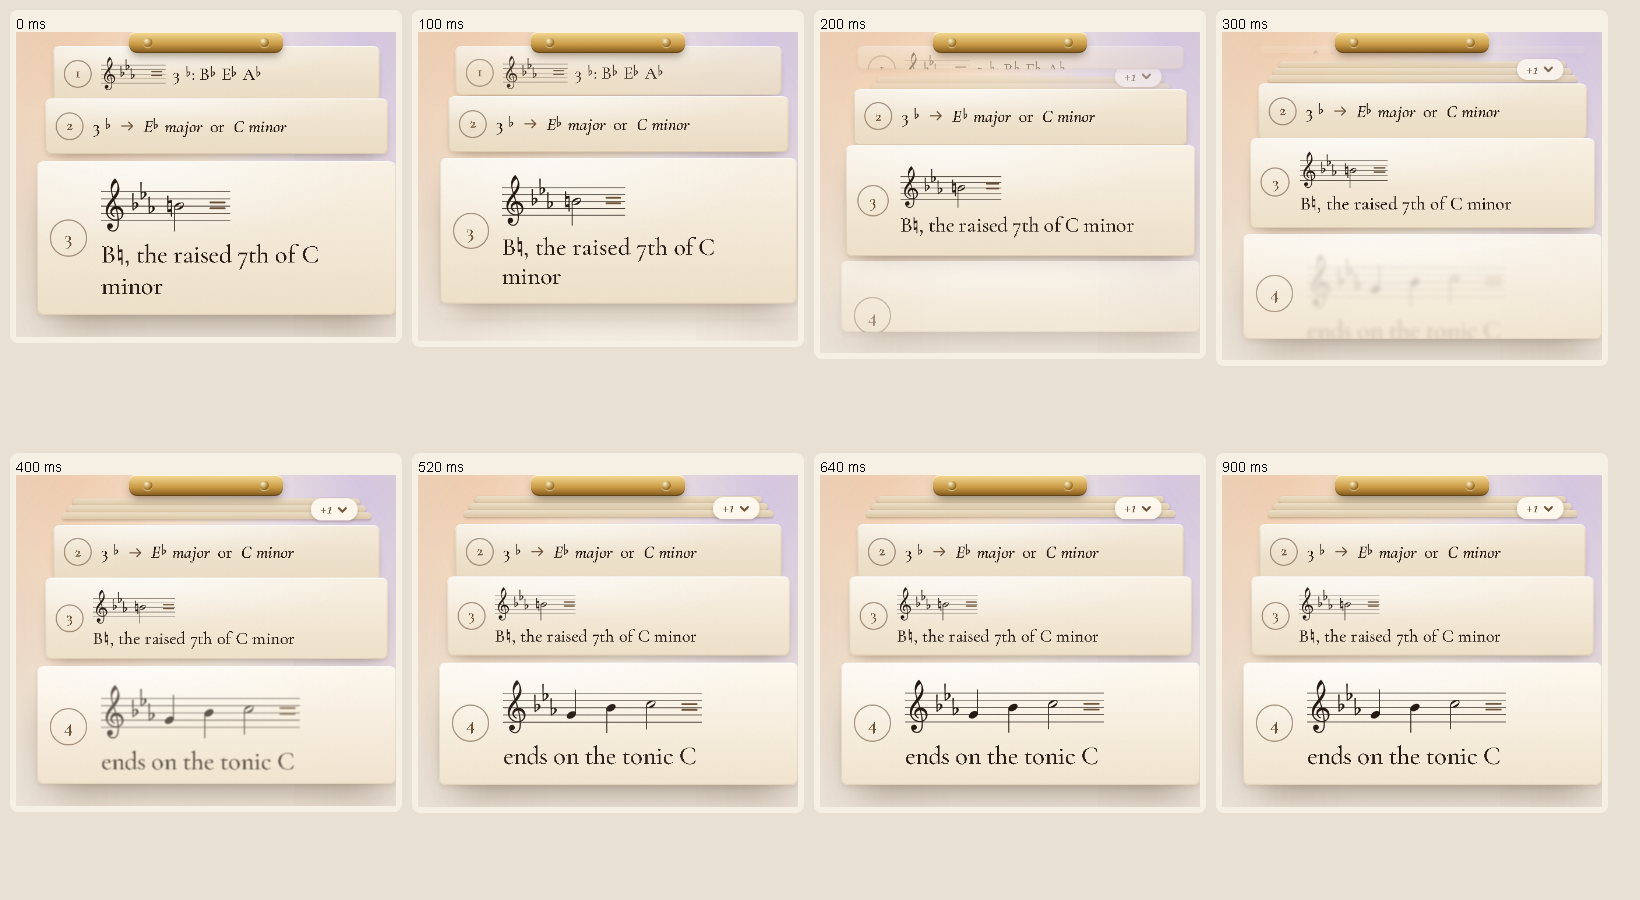
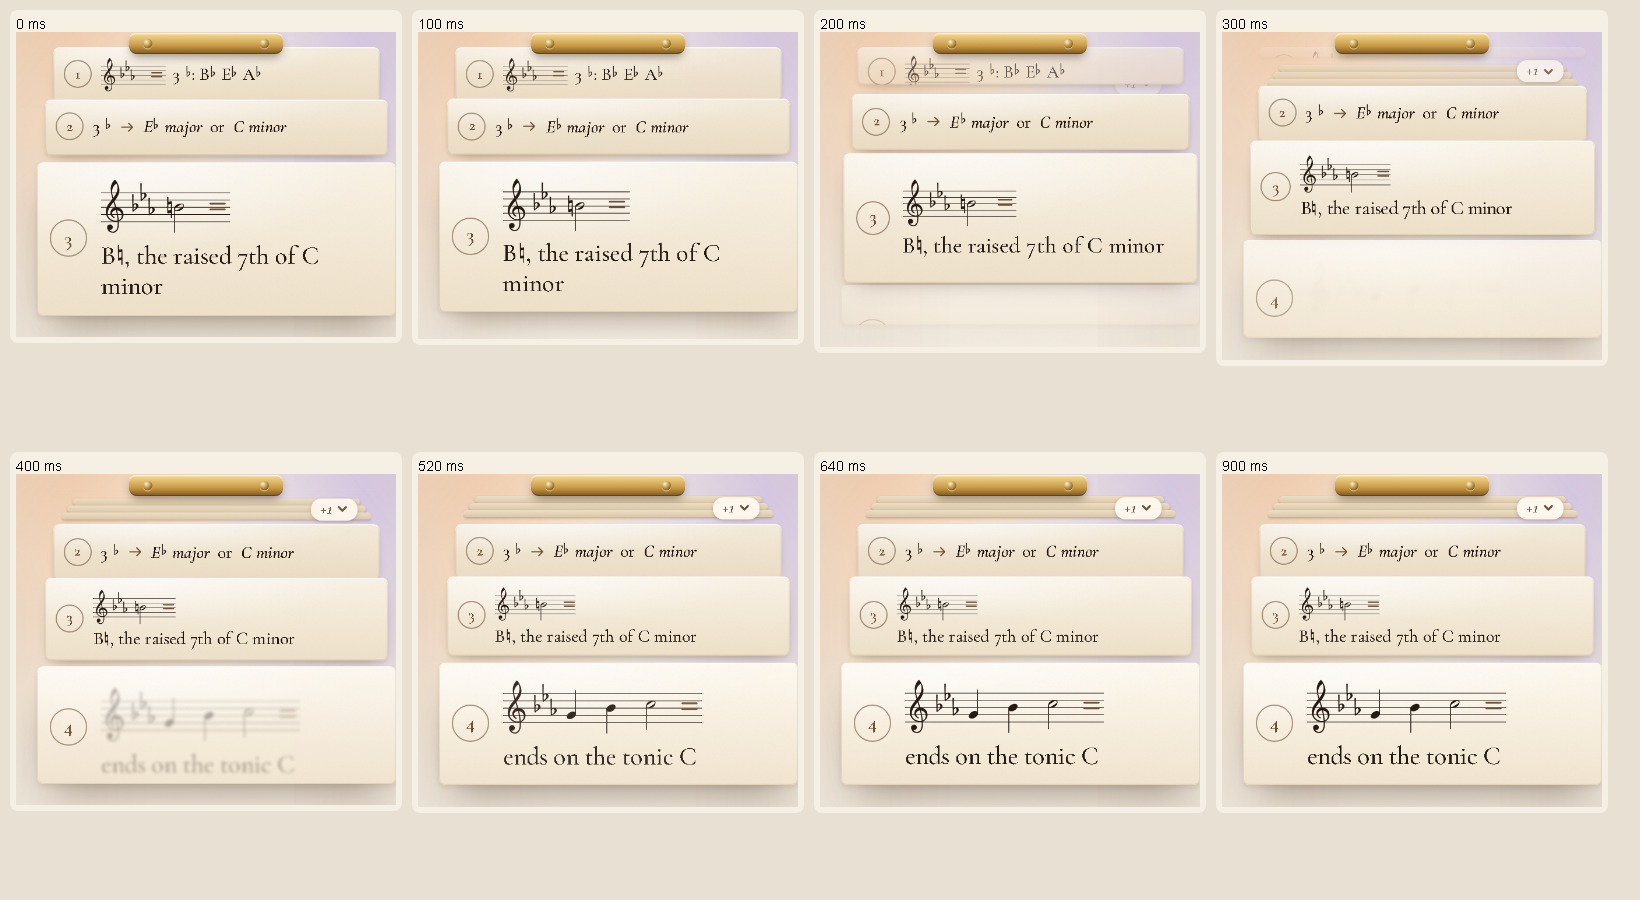
feat(prototype): conclusion stack starts its glide more gently (#20)
Claude-Session: https://claude.ai/code/session_0183GQ8DP1JG3BfkSA2soesJ
Step: design

diff --git a/prototypes/20-music-theory-book/components/c7-conclusion-stack.html b/prototypes/20-music-theory-book/components/c7-conclusion-stack.html
@@ -54,7 +54,7 @@ body[data-boundary="on"] .tl-cs::before { content: "结论栈组件"; position: 
 
 /* ---------- Conclusion stack component: it defines its whole look here and takes nothing from the page ---------- */
 /* The look follows the etude theme: slips of warm paper with grain, ink in the serif with terms in italic, violet light for whatever is lit, a brass clip holding the slips, dark bubbles. */
-/* Motion: a slip that changes from the newest to an earlier one keeps its place on screen and changes gradually (size of the text, the stave, the number, its margins, and the height of its paper), so the eye can stay on it; slips above slide up as it shrinks; at the same time the new slip's paper grows in under it, so the stack's height changes in one direction only, and its ink appears a moment later. Every move eases in and out. */
+/* Motion: a slip that changes from the newest to an earlier one keeps its place on screen and changes gradually (size of the text, the stave, the number, its margins, and the height of its paper), so the eye can stay on it; slips above slide up as it shrinks; at the same time the new slip's paper grows in under it, so the stack's height changes in one direction only, and its ink appears a moment later. Every move starts very gently, gathers pace and settles gently. */
 .tl-cs {
   --tl-paper-a: #fffaf1;
   --tl-paper-b: #f2e6d1;
@@ -71,7 +71,8 @@ body[data-boundary="on"] .tl-cs::before { content: "结论栈组件"; position: 
   --tl-bubble-bg: #2a2118;
   --tl-bubble-ink: #fff8ec;
   --tl-serif: "Cormorant Garamond", "Times New Roman", "Songti SC", serif;
-  --tl-move: .52s cubic-bezier(.4, 0, .2, 1);
+  --tl-ease: cubic-bezier(.6, 0, .25, 1);
+  --tl-move: .52s var(--tl-ease);
   position: relative; min-width: 0; width: 100%; max-width: 560px; margin: 0 auto; padding: 12px 0 18px; min-height: 34px; transition: padding-bottom var(--tl-move);
   touch-action: manipulation; -webkit-tap-highlight-color: transparent; user-select: none; -webkit-user-select: none; color: var(--tl-ink);
 }
@@ -139,7 +140,7 @@ body[data-boundary="on"] .tl-cs::before { content: "结论栈组件"; position: 
 .tl-cs-thread.tl-cs-moving { opacity: 0; }
 .tl-cs-thread path { fill: none; stroke: var(--tl-glow); stroke-width: 1.6; stroke-linecap: round; stroke-linejoin: round; }
 .tl-cs-thread circle { fill: var(--tl-glow); }
-.tl-cs-thread .tl-cs-draw { stroke-dasharray: 1; stroke-dashoffset: 1; animation: tl-cs-draw .6s .1s cubic-bezier(.4, 0, .2, 1) forwards; }
+.tl-cs-thread .tl-cs-draw { stroke-dasharray: 1; stroke-dashoffset: 1; animation: tl-cs-draw .6s .1s var(--tl-ease) forwards; }
 .tl-cs-thread .tl-cs-dot { animation: tl-cs-fade .3s both; }
 .tl-cs-thread .tl-cs-tip { animation: tl-cs-fade .25s .6s both; }
 /* A hidden conclusion lies under a paper slip with a dashed question box: missing by shape, not only by colour. */
@@ -194,7 +195,7 @@ td code { font: 13px var(--mono); background: var(--canvas); padding: 1px 5px; b
   <header style="display:grid;gap:10px">
     <span class="tagline">组件 7 / 10 · 显示类 · 直接画在画面上，放在讲题画面的最上面</span>
     <h1>结论栈</h1>
-    <p class="lede">讲题里每一幕得出一条结论，结论栈把它们一条一条留在画面最上面，最后从前面的结论得出答案。蓝色虚线框住的就是结论栈：新得出的结论是一张大纸条；下一条结论出来时，它在原地慢慢缩小成窄纸条（字、谱、编号和纸的高度一点一点变小，不跳），上面的纸条跟着往上滑，夹在黄铜夹子下面，越早的越窄、纸色越深；同时新的一条纸在它下面慢慢长出来，字稍后浮现，整叠的高度只朝一个方向慢慢变，下面的东西不会上下晃。之前的结论超过三条（手机上超过两条）时，最早的一条慢慢压扁，收进夹子下面的一小叠纸边，点一下展开。一条结论是从前面哪几条得出的，纸条都停稳以后，左边才有一条紫色的线从那几条连下来；最后的答案带一圈紫光和一个 ∴ 印章，可以先遮住，讲完再揭晓。结论里可以有文字、术语、符号（=、→、+）和一小段谱，谱点了会响。框外面的题目、下面的组件位置和字幕，都不属于它。</p>
+    <p class="lede">讲题里每一幕得出一条结论，结论栈把它们一条一条留在画面最上面，最后从前面的结论得出答案。蓝色虚线框住的就是结论栈：新得出的结论是一张大纸条；下一条结论出来时，它在原地慢慢缩小成窄纸条（字、谱、编号和纸的高度一点一点变小，不跳），起步很轻，然后加快，最后慢慢停住；上面的纸条跟着往上滑，夹在黄铜夹子下面，越早的越窄、纸色越深；同时新的一条纸在它下面慢慢长出来，字稍后浮现，整叠的高度只朝一个方向慢慢变，下面的东西不会上下晃。之前的结论超过三条（手机上超过两条）时，最早的一条慢慢压扁，收进夹子下面的一小叠纸边，点一下展开。一条结论是从前面哪几条得出的，纸条都停稳以后，左边才有一条紫色的线从那几条连下来；最后的答案带一圈紫光和一个 ∴ 印章，可以先遮住，讲完再揭晓。结论里可以有文字、术语、符号（=、→、+）和一小段谱，谱点了会响。框外面的题目、下面的组件位置和字幕，都不属于它。</p>
     <div class="toolbar"><button class="chip" type="button" id="toggle-boundary" aria-pressed="true">显示组件边界</button></div>
   </header>
 
@@ -250,7 +251,7 @@ td code { font: 13px var(--mono); background: var(--canvas); padding: 1px 5px; b
         <tbody>
           <tr><td>输入</td><td>这道讲题的全部结论（题目文件里写）：每条有编号和内容，内容是一串片段：文字、术语（斜体）、符号（<code>=</code>、<code>→</code>、<code>+</code>、<code>≠</code>）或一小段 ABC 谱；可以写它是从前面哪几条得出的、它是不是这道题的答案，可以带一句点了才弹出的说明。模式：讲题（点了发声、弹出说明）或练习（点了没有反应）；速度。</td></tr>
           <tr><td>外观</td><td>纸条的纹理和叠起来的层次、黄铜夹子、紫色的连线、答案的紫光和印章、深色的说明气泡，都写在结论栈自己里面，不从外面继承；颜色和共用部分用 <code>etude</code> 主题的值。谱和文字里的升降号都用乐谱库画出来的字形。</td></tr>
-          <tr><td>动作</td><td>推上一条新结论时，约半秒，开头和结尾都是缓的：最新的那条在原地慢慢缩成窄纸条，字、谱、编号和纸的高度一起连续变小；上面的纸条同时往上滑；新的一条纸同时在它下面长出来，字晚一点浮现，整叠的高度只朝一个方向变。折进纸边的那条同时慢慢压扁、淡出。都停稳以后，紫线再画出来，用到的那几条亮一下。上一幕、下一幕不放这些动作。</td></tr>
+          <tr><td>动作</td><td>推上一条新结论时，约半秒：起步很轻，前 0.15 秒只走一成多，然后加快，最后慢慢停住。最新的那条在原地慢慢缩成窄纸条，字、谱、编号和纸的高度一起连续变小；上面的纸条同时往上滑；新的一条纸同时在它下面长出来，字晚一点浮现，整叠的高度只朝一个方向变。折进纸边的那条同时慢慢压扁、淡出。都停稳以后，紫线再画出来，用到的那几条亮一下。上一幕、下一幕不放这些动作。</td></tr>
           <tr><td>指令</td><td><code>push(结论)</code> 这一幕的结论落到栈上，前面的缩小往上推；写了从哪几条得出的，那几条亮一下，紫线连下来；<code>set(结论…)</code> 直接摆成这几条，不放动画（上一幕、下一幕、重新进入题目时用）；<code>highlight(结论…)</code> 亮起前面的结论（折起来的也会露出来）；<code>spotlight(结论…)</code>；<code>caption(结论, 文字)</code> 在这一条下面弹出说明；<code>mask(结论…)</code> 用纸条遮住，可以在 <code>push</code> 之前遮，结论落下来时就是遮着的；<code>reveal(…)</code> 纸条滑走、写出来；<code>stop()</code> 停下点出来的声音；<code>clear()</code>。</td></tr>
           <tr><td>事件</td><td><code>itemTap</code>（哪一条、第几条、是不是答案、文字内容、是否遮着）；<code>pileTap</code>（折起来几条、现在展开没有）；<code>blankTap</code>。</td></tr>
           <tr><td>依赖</td><td>发声交给“音源”，和其他组件用的是同一个；结论栈不知道这一幕用了哪些组件。结论的内容、从哪几条得出、哪条是答案都由题目文件给，结论栈只负责画出来。</td></tr>
@@ -313,14 +314,15 @@ ConclusionStack.NARROW_PX = 480;
 ConclusionStack.TAP_FADE_MS = 2000;
 // The choreography of a push: everything glides together for MOVE_MS (the
 // newest slip shrinking, the slips above sliding up, the new slip's paper
-// growing, a folded slip flattening); the new slip's ink appears from
-// INK_DELAY_MS for INK_MS; the thread draws and its sources light once all
-// is still.
+// growing, a folded slip flattening), starting very gently so the eye is
+// on the slip before it moves much; the new slip's ink appears from
+// INK_DELAY_MS for INK_MS, once its paper has opened; the thread draws and
+// its sources light once all is still.
 ConclusionStack.MOVE_MS = 520;
-ConclusionStack.INK_DELAY_MS = 200;
-ConclusionStack.INK_MS = 420;
+ConclusionStack.INK_DELAY_MS = 240;
+ConclusionStack.INK_MS = 400;
 ConclusionStack.SETTLE_MS = 660;
-ConclusionStack.EASE = 'cubic-bezier(.4, 0, .2, 1)';
+ConclusionStack.EASE = 'cubic-bezier(.6, 0, .25, 1)';
 ConclusionStack.STAFF_SCALE = { fresh: .8, strip: .62, narrow: .5 };
 ConclusionStack.LETTERS = 'CDEFGAB';
 ConclusionStack.STEP = { C: 0, D: 2, E: 4, F: 5, G: 7, A: 9, B: 11 };

diff --git a/prototypes/20-music-theory-book/handbook-draft.md b/prototypes/20-music-theory-book/handbook-draft.md
@@ -87,9 +87,9 @@
 **动作要让眼睛跟得上。**孩子的眼睛盯着一样东西时，它怎么动，眼睛就得怎么跟；突然的跳动、来回的晃动都让人累。所以：
 
 - 一样东西变大小、换位置时，留在画面上原地连续地变：字、图、编号、边距和底下纸的高度一起一点一点变，不删掉重画，也不先跳到新位置再拉回来。文字因为变小要换行时，纸的高度照样平滑地变到最后的高度，只有字在里面重新排一次。
-- 每个动作开头和结尾都是缓的（先慢、中间快、最后慢慢停住），一次半秒左右：太快就是“突然”，太慢孩子要等。
+- 每个动作起步要特别轻：最开始的十分之一秒几乎不动，让孩子的眼睛先落到它上面，然后加快，最后慢慢停住。一次半秒左右：太快就是“突然”，太慢孩子要等；要开头更慢时，总时间不变，中间走快一些。
 - 几样东西一起动时（旧的缩小、上面的往上推、新的长出来、多的折起来），一起开始、一起结束，组件的总高度只朝一个方向变，下面的组件不会被推上去又拉下来。
-- 新出现的东西先长出自己的位置，里面的字稍后浮现；连线、箭头这类指向别处的东西，等所有东西停稳了再画，免得指着还在动的东西。
+- 新出现的东西先长出自己的位置，里面的字等位置打开一些再浮现；连线、箭头这类指向别处的东西，等所有东西停稳了再画，免得指着还在动的东西。
 
 **错和对用颜色以外的方式也能看出来。**组件要表现“多了”“缺了”“不对”时，除了换颜色，还要有形状上的区别，比如虚线框、斜纹、断开的线、划掉的线、问号、叉。
 
@@ -187,7 +187,7 @@
 | 点按的波纹 | 直径 40 的紫圈，0.55 秒散开 |
 | 遮住 | 纸条，或 1.5 像素的虚线问号框 |
 | 点了以后 | 两秒后淡掉 |
-| 换大小、换位置 | 0.52 秒，缓入缓出 `cubic-bezier(.4, 0, .2, 1)`；新出现的东西的字晚 0.2 秒浮现 |
+| 换大小、换位置 | 0.52 秒，`cubic-bezier(.6, 0, .25, 1)`：起步特别轻（0.1 秒时只走 1%～2%，0.15 秒时 5%～7%），中间加快，最后慢慢停住；新出现的东西的字晚 0.24 秒浮现 |
 | 一小段谱 | 用乐谱库画，按谱号、调号和音符裁边；文字里的 ♯ ♭ ♮ 换成同一个库的字形，按 em 定大小 |
 
 ## 现有组件
@@ -298,8 +298,8 @@
 给开发者看之前，代理先自己检查一遍：
 
 - 在手机、平板、电脑三种宽度下截图看过：没有挤在一起、叠在一起或被裁掉的文字和图形，同一组的组件一样大、该对齐的对齐，页面不左右滚动。会转的组件，转到几个不同的角度再看一次；会一幕一幕变化的组件，每一幕都截一张。
-- 会动的组件，动作用脚本量过：逐帧记下动的东西的位置、大小、字号，组件的总高度和它下面那样东西的位置，每一帧的变化都不大、不来回，总高度只朝一个方向变；再把所有动画停在几个时刻，截成一排图看动作的过程。
-- 和同一套主题的现有组件放在一起截图对比过（同样贴上 A、B、C、打开一个气泡），并用脚本比过主题的共用值：纸、墨、紫光、气泡、小圆片、播放按钮、波纹、动作的快慢都一样。
+- 会动的组件，动作用脚本量过：逐帧记下动的东西的位置、大小、字号，组件的总高度和它下面那样东西的位置，每一帧的变化都不大、不来回，总高度只朝一个方向变，不该动的东西一动不动；记下开头 0.1 秒、0.15 秒时走了多少，核对起步够不够轻；再把所有动画停在几个时刻，截成一排图看动作的过程。量的时候滚动整个页面，不要用脚本去滚一个裁边的框：脚本能滚动它，框随后会自己滑回来，看起来像组件在动，其实是假的。
+- 和同一套主题的现有组件放在一起截图对比过（同样贴上 A、B、C、打开一个气泡），并用脚本比过主题的共用值：纸、墨、紫光、气泡、小圆片、播放按钮、波纹、动作的快慢和缓急都一样。
 - 每个能点的东西都用脚本点过一遍：点中的是对的，两样东西之间的地方和一样东西的边上算给近的那个，叠着的地方算上面那个，点空白处能清掉，高亮会自己淡掉。脚本每次点之前先把要点的东西滚到屏幕里，否则点到的是屏幕外面，查出来的错是假的；查出“没点中”时，先看是组件的错还是脚本点到了别的东西上。
 - 每条指令都用脚本跑过一遍，没有报错，发出的事件对；标记、气泡在指令前后不压在别的文字上，也不跑出组件。组件能画的每一种情况（比如每一个调、每一种谱号、每一张卡、每一幕）都用脚本走一遍，核对画出来的东西对不对、有没有超出它的地方。
 - “直接摆成某一幕”的指令用脚本试过：画出来的和一幕一幕走到那里一样，没有正在放的动画，遮住的还遮着。
